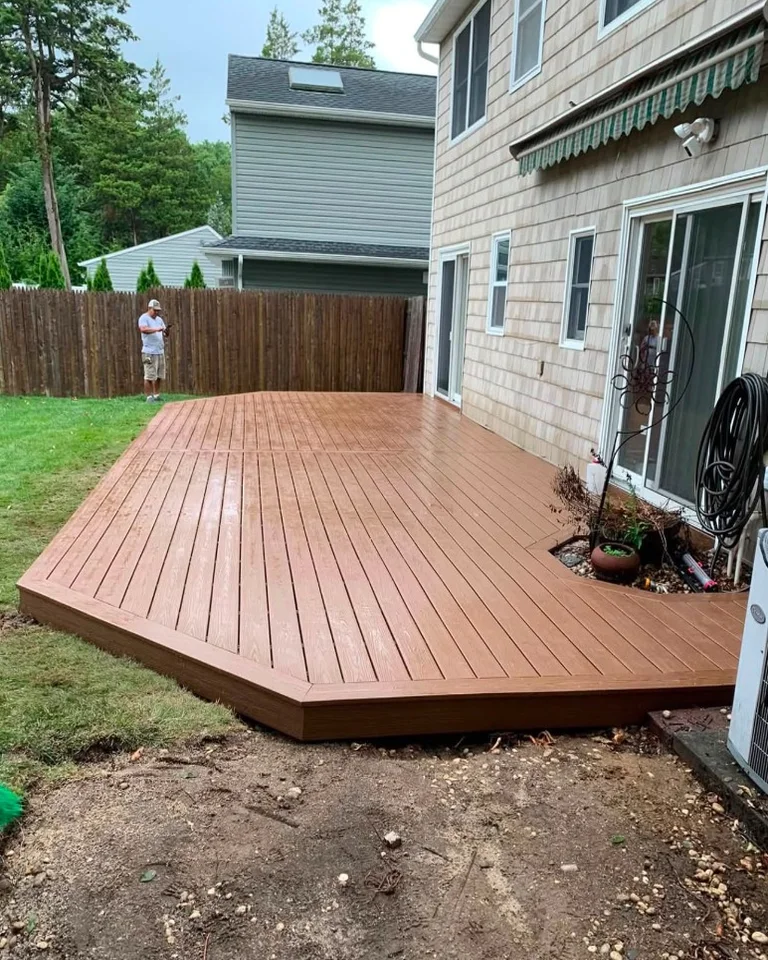
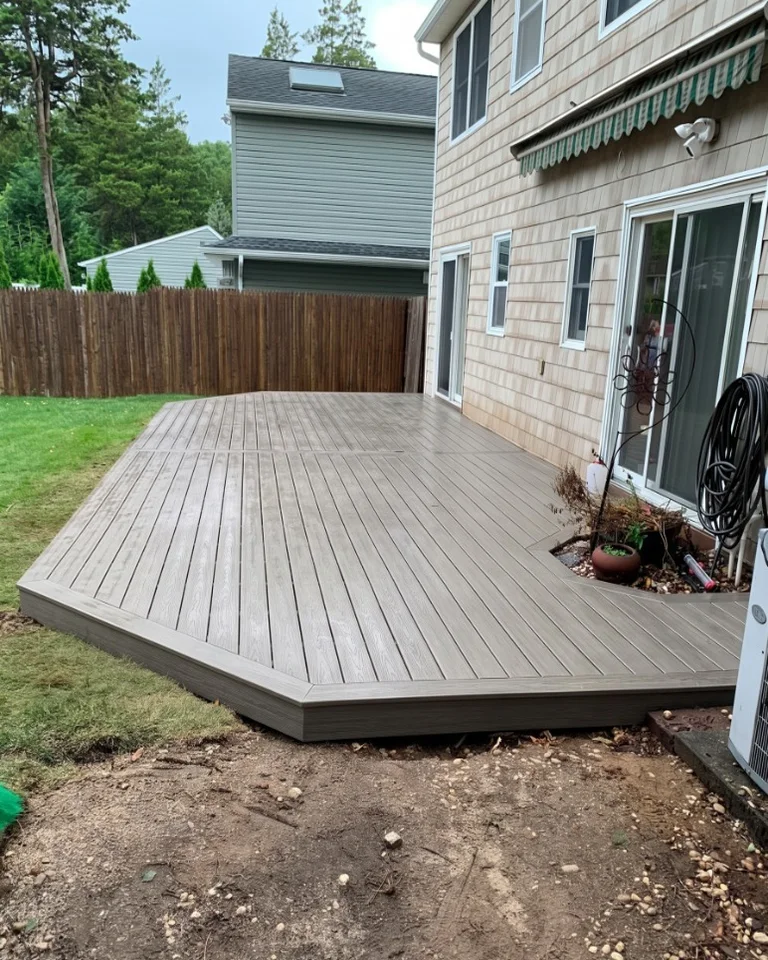
feat(portfolio): replace deck photos with true Before (aged weathered wood) and pristine After (luxury composite decking) in Rye NY

diff --git a/carpentry-shelving.html b/carpentry-shelving.html
@@ -160,19 +160,19 @@
     <div style="display: flex; justify-content: space-between; align-items: center; flex-wrap: wrap; gap: 16px; margin-bottom: 24px;">
       <div>
         <span style="display: inline-block; background: #eab308; color: #071828; font-weight: 800; font-size: 11px; letter-spacing: 1.5px; text-transform: uppercase; padding: 5px 12px; border-radius: 12px; margin-bottom: 8px;">Featured Outdoor Carpentry Project</span>
-        <h2 style="color: #ffffff; font-size: 2.4rem; margin: 0; letter-spacing: 0.5px;">Custom Composite Deck Build &amp; Joist Framing</h2>
+        <h2 style="color: #ffffff; font-size: 2.4rem; margin: 0; letter-spacing: 0.5px;">Aged Wood Deck Removal &amp; Custom Composite Decking Installation</h2>
       </div>
       <div style="color: #eab308; font-weight: 700; font-size: 1.1rem;">📍 Rye, NY (10580)</div>
     </div>
     <div style="display: grid; grid-template-columns: repeat(auto-fit, minmax(320px, 1fr)); gap: 24px;">
       <div style="background: #0b2a4a; border-radius: 12px; overflow: hidden; box-shadow: 0 10px 30px rgba(0,0,0,0.3); border: 1px solid rgba(255,255,255,0.1);">
         <div style="position: relative;">
-          <span style="position: absolute; top: 12px; left: 12px; background: rgba(7,24,40,0.95); color: #ffffff; font-family:'Bebas Neue',sans-serif; font-size: 1rem; padding: 4px 14px; border-radius: 4px; letter-spacing: 1px; border: 1px solid rgba(255,255,255,0.2);">BEFORE: JOIST FRAMING PREP</span>
-          <img src="/assets/images/before-after/custom_composite_deck_installation_rye_before.webp" alt="Treated timber deck floor joists and framing prep before composite board installation in Rye NY" style="width: 100%; height: 380px; object-fit: cover; display: block;">
+          <span style="position: absolute; top: 12px; left: 12px; background: rgba(7,24,40,0.95); color: #ffffff; font-family:'Bebas Neue',sans-serif; font-size: 1rem; padding: 4px 14px; border-radius: 4px; letter-spacing: 1px; border: 1px solid rgba(255,255,255,0.2);">BEFORE: WEATHERED WOOD DECK</span>
+          <img src="/assets/images/before-after/custom_composite_deck_installation_rye_before.webp" alt="Old weathered grey wooden deck boards before composite replacement in Rye NY" style="width: 100%; height: 380px; object-fit: cover; display: block;">
         </div>
         <div style="padding: 20px;">
-          <h4 style="font-family:'Bebas Neue',sans-serif; font-size: 1.3rem; color: #ffffff; margin-bottom: 6px;">Timber Sub-Structure &amp; Joists</h4>
-          <p style="font-size: 0.95rem; color: #cbd5e1; line-height: 1.6;">Precision floor joist spacing, ledger anchoring, and level framing layout across the multi-angled ground-level platform.</p>
+          <h4 style="font-family:'Bebas Neue',sans-serif; font-size: 1.3rem; color: #ffffff; margin-bottom: 6px;">Aged, Weathered Wood Decking</h4>
+          <p style="font-size: 0.95rem; color: #cbd5e1; line-height: 1.6;">Old pressure-treated deck with faded grey boards, sun oxidation, and aged surface wear across the multi-angled ground-level platform.</p>
         </div>
       </div>
       <div style="background: #0b2a4a; border-radius: 12px; overflow: hidden; box-shadow: 0 10px 30px rgba(0,0,0,0.3); border: 1px solid rgba(255,255,255,0.1);">

diff --git a/gallery.html b/gallery.html
@@ -419,7 +419,7 @@ j=d.createElement(s),dl=l!='dataLayer'?'&l='+l:'';j.async=true;j.src=
     const IMG = "/assets/images/before-after";
     
     const PROJECTS = [
-      { id:"custom-composite-deck-rye", title:"Custom Ground-Level Composite Deck Build & Precision Framing", town:"Rye", place:"Rye, NY (10580)", desc:"Pressure-treated timber floor joist framing, multi-angled border layout, and luxury wood-grain composite deck board installation with mitered picture frame trim.", tag:"Carpentry", serviceUrl:"/carpentry-shelving", before:IMG+"/custom_composite_deck_installation_rye_before.webp", after:IMG+"/custom_composite_deck_installation_rye_after.webp" },
+      { id:"custom-composite-deck-rye", title:"Aged Wood Deck Removal & Custom Composite Decking Installation", town:"Rye", place:"Rye, NY (10580)", desc:"Complete tear-out of weathered, sun-damaged wood boards, structural floor joist framing, and luxury wood-grain composite deck installation with precision mitered picture frame borders.", tag:"Carpentry", serviceUrl:"/carpentry-shelving", before:IMG+"/custom_composite_deck_installation_rye_before.webp", after:IMG+"/custom_composite_deck_installation_rye_after.webp" },
       { id:"tv-mount-cable-raceway-chappaqua", title:"Tilt Smart TV Wall Mounting & Cable Raceway Concealment", town:"Chappaqua", place:"Chappaqua, NY (10514)", desc:"Corner wall stud anchor installation, tilt bracket mounting, level alignment, and flush white cable track wire management down to the outlet.", tag:"TV Mounting", serviceUrl:"/tv-mounting", before:IMG+"/tv_wall_mount_cable_raceway_chappaqua_before.webp", after:IMG+"/tv_wall_mount_cable_raceway_chappaqua_after.webp" },
       { id:"gutter-cleaning-debris-removal-scarsdale", title:"Roof Gutter Debris Removal & Channel Flushing", town:"Scarsdale", place:"Scarsdale, NY (10583)", desc:"Complete clearing of heavy organic sludge, downspout channel flushing, and bracket security inspection along estate roofline.", tag:"Repairs", serviceUrl:"/gutter-cleaning", before:IMG+"/gutter_cleaning_debris_removal_scarsdale_before.webp", after:IMG+"/gutter_cleaning_debris_removal_scarsdale_after.webp" },
       { id:"vizio-tv-mount-yonkers", title:"Vizio Smart TV Tilt Wall Mounting & Leveling Setup", town:"Yonkers", place:"Yonkers, NY (10701)", desc:"Wall stud finding, USX STAR tilt bracket installation, VESA rail attachment, TV mounting, laser leveling, and cable organization.", tag:"TV Mounting", serviceUrl:"/tv-mounting", before:IMG+"/vizio_tv_wall_mount_installation_yonkers_before.webp", after:IMG+"/vizio_tv_wall_mount_installation_yonkers_after.webp" },

diff --git a/index.html b/index.html
@@ -2780,11 +2780,11 @@ j=d.createElement(s),dl=l!='dataLayer'?'&l='+l:'';j.async=true;j.src=
       <div class="ba-carousel" style="position:relative;overflow:hidden;border-radius:20px;box-shadow:0 25px 60px rgba(0,0,0,0.5);border:1px solid rgba(255,255,255,0.12)">
        <div class="ba-viewport" style="overflow:hidden">
         <div class="ba-slides" style="display:flex;transition:transform 0.5s ease-in-out">
-          <!-- Job Rye Deck: Custom Ground-Level Composite Deck Build & Precision Framing — Rye, NY -->
+          <!-- Job Rye Deck: Aged Wood Deck Removal & Custom Composite Decking Installation — Rye, NY -->
           <figure class="ba-slide" style="min-width:100%;margin:0;flex-shrink:0;position:relative">
            <div style="display:grid;grid-template-columns:1fr 1fr;gap:4px;background:#000">
             <div style="position:relative">
-             <img alt="Treated timber deck floor joists and framing prep before composite board installation — Rye NY" decoding="async" height="1365" loading="lazy" src="/assets/images/before-after/custom_composite_deck_installation_rye_before.webp" style="width:100%;height:480px;object-fit:cover;display:block" width="1024"/>
+             <img alt="Old weathered grey wooden deck boards before composite replacement — Rye NY" decoding="async" height="1365" loading="lazy" src="/assets/images/before-after/custom_composite_deck_installation_rye_before.webp" style="width:100%;height:480px;object-fit:cover;display:block" width="1024"/>
              <span style="position:absolute;top:14px;left:14px;background:rgba(7,24,40,0.9);color:#fff;font-size:12px;font-weight:800;letter-spacing:1.5px;text-transform:uppercase;padding:6px 14px;border-radius:20px;border:1px solid rgba(255,255,255,0.2)">
               Before
              </span>
@@ -2797,7 +2797,7 @@ j=d.createElement(s),dl=l!='dataLayer'?'&l='+l:'';j.async=true;j.src=
             </div>
            </div>
            <figcaption style="background:#0b2a4a;padding:16px 24px;color:#fff;font-size:15px;font-weight:700;text-align:center;letter-spacing:0.5px;border-top:1px solid rgba(255,255,255,0.1)">
-            Custom Ground-Level Composite Deck Build &amp; Precision Framing — Rye, NY
+            Aged Wood Deck Removal &amp; Custom Composite Decking Installation — Rye, NY
            </figcaption>
           </figure>
           <!-- Job Chappaqua TV: Tilt Smart TV Wall Mounting & Clean Cable Raceway Concealment — Chappaqua, NY -->
